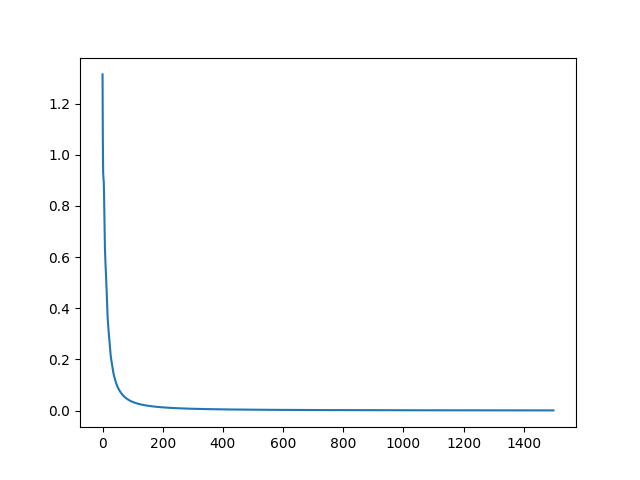
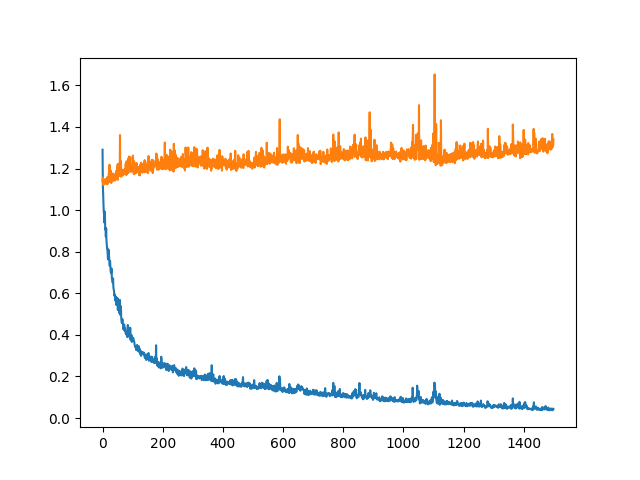
test on the v5 data

diff --git a/codes/classify/fbcnet.py b/codes/classify/fbcnet.py
@@ -138,6 +138,13 @@ class FBCNet:
             y_list[curY].append(curY) 
             X_list[curY].append(curX) 
 
+        # XXX: shuffle the list 
+
+        for i in range(3):
+            shuffle_num = np.random.permutation(len(X_list[i]))
+            X_list[i] = X_list[i][shuffle_num]
+            y_list[i] = y_list[i][shuffle_num]
+
         X_train_list = []
         X_valid_list = []
         y_train_list = []
@@ -187,17 +194,17 @@ class FBCNet:
 
         # for validation and early-stopping
         best_loss = float('inf')
-        patience = 100 
+        patience = 300 
         train_loss_list = []
         valid_loss_list = []
         best_model_weights = copy.deepcopy(self.net.state_dict())
 
         # create the Dataloader
         X_train_tensor = X_train.unsqueeze(1)
-        y_train_tensor = torch.from_numpy(y_train)
+        y_train_tensor = torch.from_numpy(y_train).to(torch.long)
         if len(X_valid) != 0:
             X_valid_tensor = X_valid.unsqueeze(1)
-            y_valid_tensor = torch.from_numpy(y_valid)
+            y_valid_tensor = torch.from_numpy(y_valid).to(torch.long)
 
         train_dataset = TensorDataset(X_train_tensor, y_train_tensor)
         train_loader = DataLoader(train_dataset, batch_size=batch_size, shuffle=True)
@@ -223,7 +230,6 @@ class FBCNet:
                 optimizer.zero_grad()
 
                 outputs = self.net(inputs)
-
                 loss = criterion(outputs, labels)
                 tot_loss += loss.item() * inputs.size(0)
                 num_samples += inputs.size(0)
@@ -235,7 +241,7 @@ class FBCNet:
             train_loss_list.append(avg_loss)
 
             # validation
-            if len(X_valid) != 0 and len(y_valid) != 0 and earlyStop:
+            if len(X_valid) != 0 and len(y_valid) != 0:
                 self.net.eval()
                 tot_loss = 0.0
                 num_samples = 0
@@ -254,10 +260,10 @@ class FBCNet:
                 if avg_loss < best_loss:
                     best_loss = val_loss
                     best_model_weights = copy.deepcopy(self.net.state_dict())
-                    patience = 100 
+                    patience = 300
                 else:
                     patience -= 1
-                    if patience == 0:
+                    if patience == 0 and earlyStop:
                         print(f"Early Stop. Current Epoch: {epoch+1}")
                         break
             
@@ -269,7 +275,7 @@ class FBCNet:
 
         plt.savefig("loss curve.png")
 
-    def finetune(self, data, train_ratio=0.8):
+    def finetune(self, data, train_ratio=0.8, earlyStop=True):
         """
         Finetune the model on the given data.
 
@@ -280,8 +286,12 @@ class FBCNet:
             ((n_trials, n_chans, n_times), (n_trials,)).
             In particular, ((30, 14, 250), (30,))
 
-        - train_ratio: determines how much of the data will be splitted into training set
+        - train_ratio: int
+            determines how much of the data will be splitted into training set
             the rest will be validation set. defaults to 0.8
+
+        - earlyStop: Boolean
+            whether the model will early stop to avoid overfitting, defaults to True
 
         Return
         ------
@@ -295,7 +305,7 @@ class FBCNet:
             X_valid = self.transform(X_valid)
         print("the model will be finetuned.") 
         print(X_train.shape, y_train.shape, X_valid.shape, y_valid.shape)
-        self.train(X_train, y_train, X_valid, y_valid, n_epochs=1500, lr=0.001, batch_size=30, earlyStop=True)
+        self.train(X_train, y_train, X_valid, y_valid, n_epochs=1500, lr=0.001, batch_size=30, earlyStop=earlyStop)
 
     def inference(self, data):
         """

diff --git a/codes/classify/test.py b/codes/classify/test.py
@@ -12,6 +12,7 @@ import math
 import copy
 from torch.utils.data import DataLoader
 from scipy.io import loadmat
+import pickle
 
 masterPath = os.path.dirname(os.path.dirname(os.path.abspath(__file__)))
 sys.path.insert(1, os.path.join(masterPath, 'centralRepo'))
@@ -57,7 +58,10 @@ def load_lyh_data(sessionId, train_idx=10):
     nothing_v2_fp = "nothing_processed_v2(300).npy"
     nothing_v3_fp = "nothing_processed_v3(500).npy"
     nothing_v4_fp = "nothing_processed_v4(500).npy"
-    
+
+    v5_fp = "v5.pkl"
+    v5_test_fp = "v5-test.pkl"
+
     # get all the data first
     left_v2 = np.load(os.path.join(dir_path, left_v2_fp))
     left_v3 = np.load(os.path.join(dir_path, left_v3_fp))
@@ -74,6 +78,8 @@ def load_lyh_data(sessionId, train_idx=10):
     eeg_raw_v2 = [left_v2, right_v2, leg_v2]
     eeg_raw_v3 = [left_v3, right_v3, leg_v3]
     eeg_raw_v4 = [left_v4, right_v4, leg_v4]
+    with open(os.path.join(dir_path, v5_fp), 'rb') as f:
+        eeg_raw_v5 = pickle.load(f)
 
     fs = 250
     X_train_tot = []
@@ -89,8 +95,19 @@ def load_lyh_data(sessionId, train_idx=10):
         eeg_raw = eeg_raw_v2
     elif sessionId == "v3":
         eeg_raw = eeg_raw_v3
-    else:
+    elif sessionId == "v4":
         eeg_raw = eeg_raw_v4
+    else:
+        eeg_raw = eeg_raw_v5 
+        X_train = eeg_raw['train_session']['X_processed']
+        y_train = eeg_raw['train_session']['y']
+        X_test = eeg_raw['test_session']['X_processed']
+        y_test = eeg_raw['test_session']['y']
+
+        train_data = {'x': X_train, 'y': y_train, 'c': [i for i in range(14)], 's': fs}
+        test_data = {'x': X_test, 'y': y_test, 'c': [i for i in range(14)], 's': fs}
+        #(n_chan, 1000, n_trials)
+        return train_data, test_data
 
     for i in range(3):
         # XXX: fixed the bug that you cannot simply reshape the files
@@ -266,7 +283,7 @@ if __name__ == "__main__":
     # _, train_data = load_lyh_data("v3", train_idx=0)
     # _, train_data = load_bci_data("train", train_idx=0)
 
-    finetune_data, test_data = load_lyh_data("v3", train_idx=10)
+    finetune_data, test_data = load_lyh_data("v5", train_idx=10)
     # finetune_data, test_data = load_bci_data(session="test", train_idx=16)
     print(finetune_data['x'].shape, test_data['x'].shape)
 
@@ -322,7 +339,7 @@ if __name__ == "__main__":
     print(f"tot: {tot_cnt} correct: {acc_cnt} acc: {acc_cnt / tot_cnt}")
     
 
-    fbcnet.finetune((finetune_data['x'], finetune_data['y']), train_ratio=1)
+    fbcnet.finetune((finetune_data['x'], finetune_data['y']), train_ratio=0.8, earlyStop=False)
 
     # print("------train set after finetune----------")
     # ans_list = []
